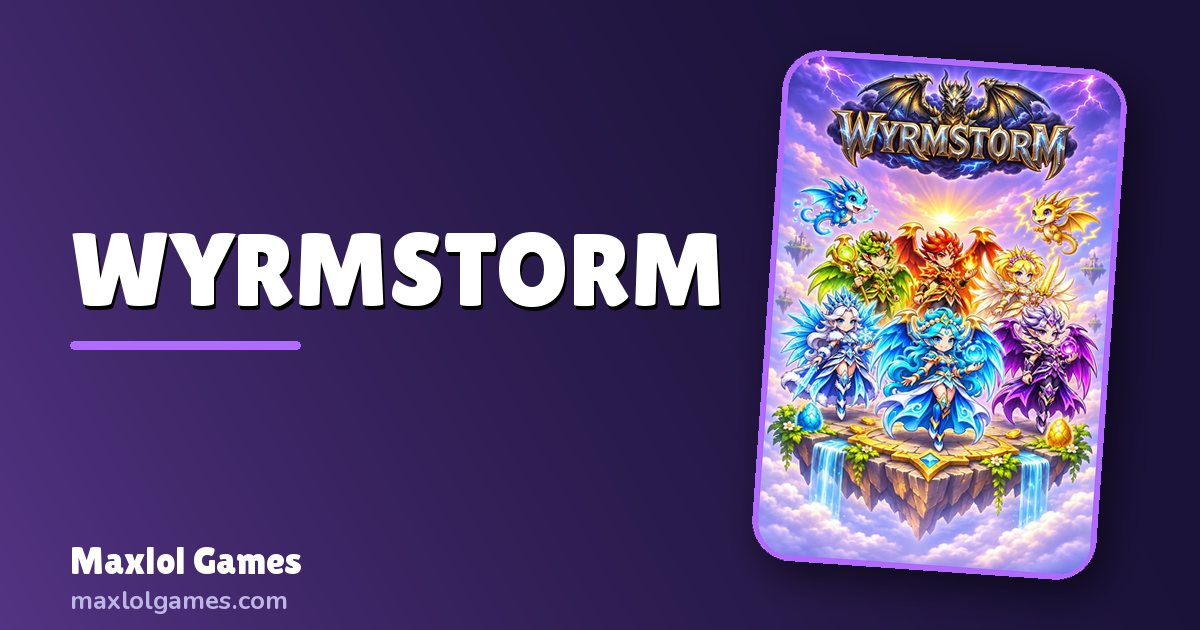
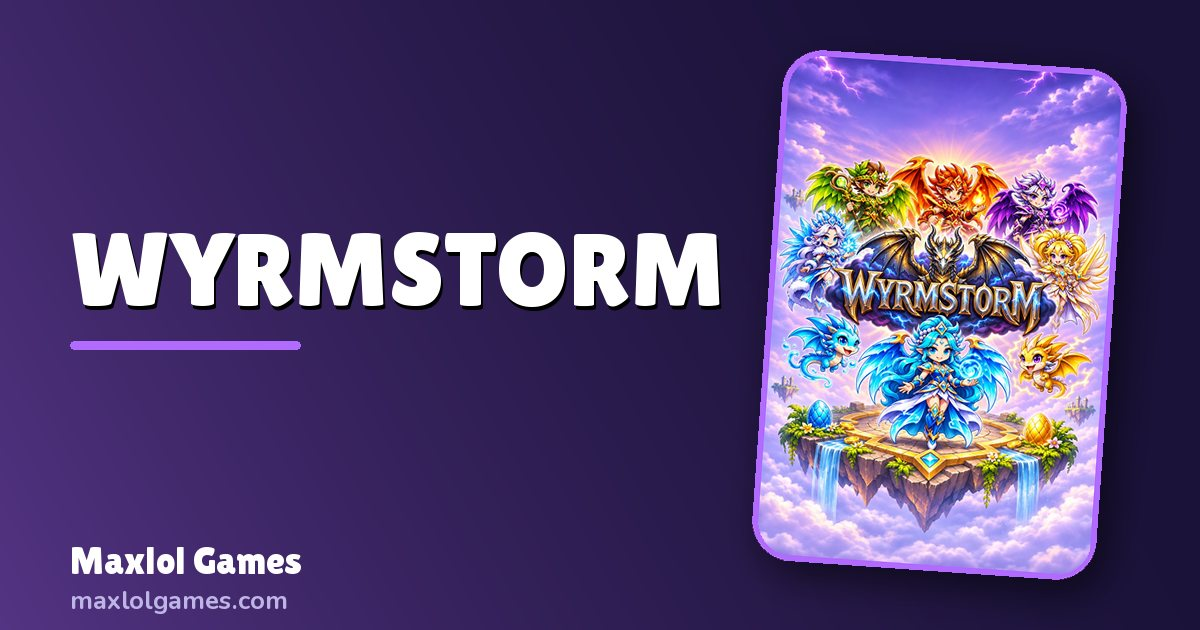
Images de partage : 4 jeux avec les nouveaux visuels + image d'accueil refaite (4 jeux)
Claude-Session: https://claude.ai/code/session_01DCrsPhp6U7CdvBjk4D7sSH

Changed region(s): [[0.6167, 0.0905, 0.9558, 0.9048]]

diff --git a/tools/make_og_home.py b/tools/make_og_home.py
@@ -1,0 +1,28 @@
+# Image de partage de l'accueil (assets/og.jpg, 1200x630) : titre + 4 couvertures. Usage : python3 tools/make_og_home.py
+from PIL import Image, ImageDraw, ImageFont, ImageFilter
+import os
+R=os.path.dirname(os.path.dirname(os.path.abspath(__file__)))+'/'
+LIL=R+'assets/fonts/lilita-one.woff'; NUN=R+'assets/fonts/nunito.woff'
+W,H=1200,630
+im=Image.new('RGB',(W,H),(26,18,56)); px=im.load()
+for y in range(H):
+    for x in range(W):
+        t=x/W; a=0.30*(1-t)**1.5; c=(255,159,46); px[x,y]=tuple(int((26,18,56)[i]*(1-a)+c[i]*a) for i in range(3))
+im=im.convert('RGBA')
+covs=[('art/La-Derniere-Torche/02-les-huit-heros.webp',(255,159,46)),('art/WYRMSTORM/12-affiche-heros.webp',(178,107,255)),('assets/gt-cover.webp',(79,168,255)),('art/Infinite-Dungeon/02-couverture.webp',(255,181,71))]
+ch=330; xs=[440,630,815,1010]; ys=[250,110,260,100]; rot=[-5,3,-3,5]
+order=[0,3,1,2]
+for (p,col),x,y,r in [(covs[i],xs[i],ys[i],rot[i]) for i in order]:
+    a=Image.open(R+p).convert('RGBA'); a=a.resize((int(a.width*ch/a.height),ch),Image.LANCZOS)
+    m=Image.new('L',a.size,0); ImageDraw.Draw(m).rounded_rectangle((0,0)+a.size,radius=24,fill=255)
+    o=Image.new('RGBA',(a.width+10,a.height+10),(0,0,0,0)); ImageDraw.Draw(o).rounded_rectangle((0,0,o.width-1,o.height-1),radius=28,fill=col+(255,)); o.paste(a,(5,5),m)
+    o=o.rotate(r,expand=True,resample=Image.BICUBIC)
+    sh=Image.new('RGBA',(o.width+100,o.height+100),(0,0,0,0)); sh.paste((0,0,0,150),(50,50),mask=o.split()[3]); sh=sh.filter(ImageFilter.GaussianBlur(14))
+    im.alpha_composite(sh,(x-50+8,y-50+14)); im.alpha_composite(o,(x,y))
+d=ImageDraw.Draw(im)
+d.text((62,88),'MAXLOL',font=ImageFont.truetype(LIL,118),fill=(255,181,71)); d.text((62,206),'GAMES',font=ImageFont.truetype(LIL,118),fill=(236,230,255))
+f=ImageFont.truetype(LIL,34); y=368
+for n,c in (('La Dernière Torche',(255,255,255)),('WYRMSTORM',(205,170,255)),('Gravity Turn',(150,200,255)),('Infinite Dungeon',(255,205,130))):
+    d.text((66,y),n,font=f,fill=c); y+=46
+d.text((66,H-52),'maxlolgames.com',font=ImageFont.truetype(NUN,28),fill=(190,180,230))
+im.convert('RGB').save(R+'assets/og.jpg',quality=84,optimize=True,progressive=True); print(os.path.getsize(R+'assets/og.jpg')//1024,'Ko')

diff --git a/tools/make_og.py b/tools/make_og.py
@@ -3,8 +3,8 @@ from PIL import Image, ImageDraw, ImageFont, ImageFilter
 import os
 R=os.path.dirname(os.path.dirname(os.path.abspath(__file__)))+'/'
 LIL=R+'assets/fonts/lilita-one.woff'; NUN=R+'assets/fonts/nunito.woff'
-GAMES={'la-derniere-torche':('La Dernière Torche',(255,159,46),'assets/t-cover2.webp'),'wyrmstorm':('WYRMSTORM',(178,107,255),'assets/ws-cover.webp'),
-       'gravity-turn':('Gravity Turn',(79,168,255),None),'infinite-dungeon':('Infinite Dungeon',(255,181,71),'assets/id-title.webp')}
+GAMES={'la-derniere-torche':('La Dernière Torche',(255,159,46),'art/La-Derniere-Torche/02-les-huit-heros.webp'),'wyrmstorm':('WYRMSTORM',(178,107,255),'art/WYRMSTORM/12-affiche-heros.webp'),
+       'gravity-turn':('Gravity Turn',(79,168,255),None),'infinite-dungeon':('Infinite Dungeon',(255,181,71),'art/Infinite-Dungeon/02-couverture.webp')}
 W,H=1200,630
 def grad(c):
     im=Image.new('RGB',(W,H)); px=im.load(); base=(26,18,56)
